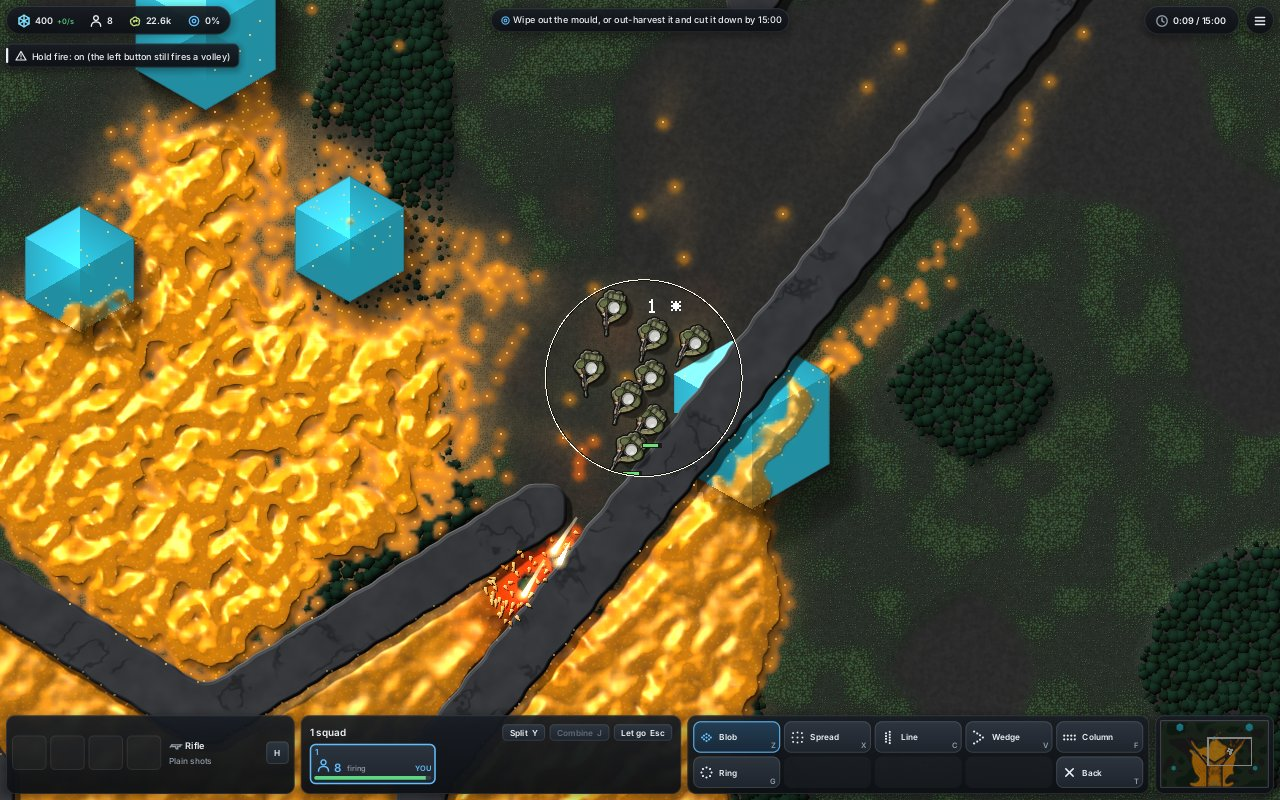
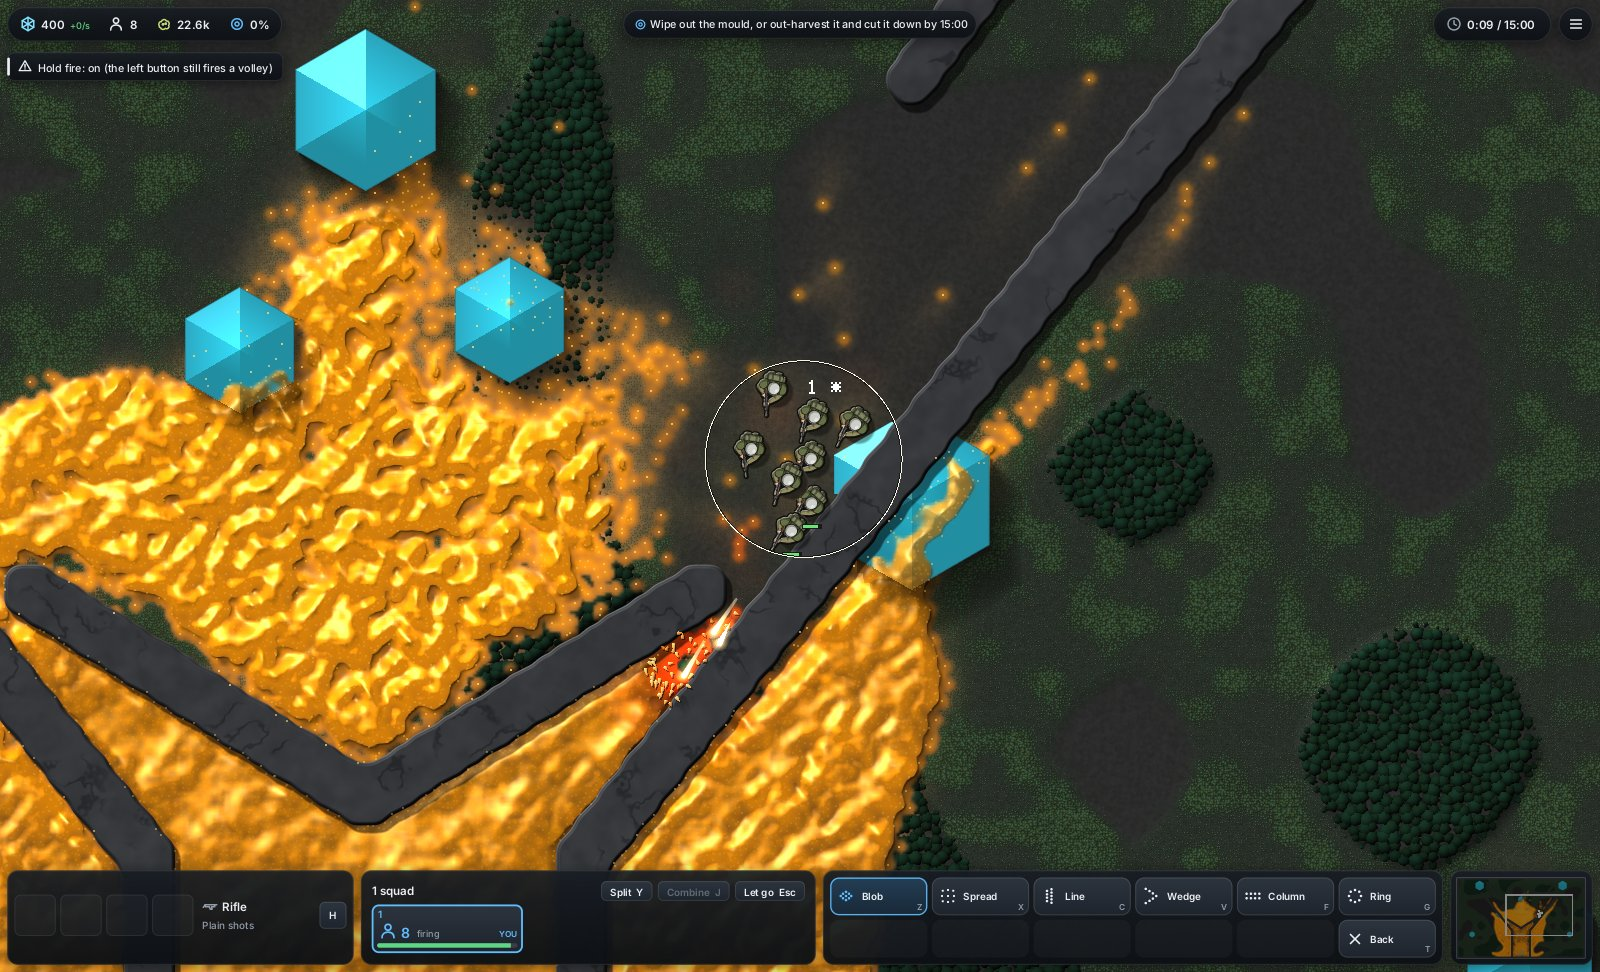
Card 6 x 2: Heal and Wall on the main page, the gun strip gives the room
Scott 06:21Z: "Shrink the gun section to get another column. Add walls to
the main page." ui::CARD_COLS 6, CELL_W 116 -> 108, GUN_FLOOR at 0.7 of
the rifle's bare strip, so the card keeps its labels and the gun strip
draws smaller where the row is tight (125% on 1600x972 and 1280x800). A
one-line button name now stays clear of its key (Drain crystal ran under
its G at 108). Squad main page: Attack, Guard, Drain, Fire, Hold fire,
Heal; Buy, Pump, Wall (V), Build, Tools, Formation. Formation page: six
formations in a row, Back under Formation. The RTS card leaves its sixth
column empty.

Claude-Session: https://claude.ai/code/session_01TFcbG7BwQKEVXj5ZSmFTzB

diff --git a/src/bin/larder-world/draw.rs b/src/bin/larder-world/draw.rs
@@ -1581,23 +1581,34 @@ impl App {
             // Pump's main-card slot is Heal's in the squad mode (below,
             // 2026-11-21); there Pump is on the Build page only.
             pump((1, 1)),
-            Command { about: "Turrets, pumps, walls, lures and sirens.".into(), ..Command::new(BUILD_PAGE, at((1, 3), (1, 2)), Icon::Turret, "Build", KeyCode::KeyQ) },
+            Command { about: "Turrets, pumps, walls, lures and sirens.".into(), ..Command::new(BUILD_PAGE, (1, 3), Icon::Turret, "Build", KeyCode::KeyQ) },
             Command {
                 about: "The squad's tools: blast, det cord, mine, germ, sleep gas. Every soldier at the larder picks one up; a selected soldier there takes up to five, and each one held costs carry.".into(),
-                ..Command::new(TOOLS_PAGE, at((1, 4), (1, 3)), Icon::Grenade, "Tools", KeyCode::KeyE)
+                ..Command::new(TOOLS_PAGE, (1, 4), Icon::Grenade, "Tools", KeyCode::KeyE)
             },
         ];
         // The squad mode's Hold fire and Formation (owner 2026-11-21
         // 05:04Z). Hold fire takes Heal's (0, 4), beside the fire button;
-        // Formation takes the Lookouts' (1, 4), which went with the
-        // lookouts, and opens the Formation page.
+        // Formation takes the last slot, (1, 5), and opens the Formation
+        // page.
         if squads {
-            // Heal back on the main card in Pump's (1, 1); Pump stays on the
-            // Build page (Q, then U). A night on the Formation page read as
-            // an odd fit (owner 06:14Z: "heal is in formation?").
-            cmds.retain(|c| c.id != PUMP);
+            // The card's sixth column (owner 06:21Z: "Shrink the gun section
+            // to get another column. Add walls to the main page."): Heal at
+            // (0, 5), the wall at (1, 2) (as on the Build page, V). For a
+            // few minutes Heal sat on the Formation page and then in Pump's
+            // slot (owner 06:14Z: "heal is in formation?").
             let heal_off = g.active.map_or(no_sel(), |a| super::squadmode::heal_off(g, a));
-            cmds.push(Command { ready: heal_off.is_none(), why_not: heal_off, about: "The squad stops where it is and heals, paying food from the bank: fast by a crystal you hold, slow elsewhere. Any order ends it.".into(), ..Command::new(HEAL_ORDER, (1, 1), Icon::Heart, "Heal", super::squadmode::HEAL_KEY) });
+            cmds.push(Command { ready: heal_off.is_none(), why_not: heal_off, about: "The squad stops where it is and heals, paying food from the bank: fast by a crystal you hold, slow elsewhere. Any order ends it.".into(), ..Command::new(HEAL_ORDER, (0, 5), Icon::Heart, "Heal", super::squadmode::HEAL_KEY) });
+            cmds.push(Command {
+                target: Target::Line { width: r.wall_width * sc },
+                // The price a cell, bare: "20/cell" ran past the narrower
+                // button's edge.
+                cost: Some(format!("{:.0}", r.wall_cost)),
+                ready: g.bank >= r.wall_cost,
+                why_not: need(r.wall_cost),
+                about: format!("A wall the mould has to wear through, slowly. Both ends within a soldier's range; {:.0} food a cell of its length. Doors are on the Build page.", r.wall_cost),
+                ..Command::new(WALL, (1, 2), Icon::Wall, "Wall", KeyCode::KeyV)
+            });
             cmds.push(Command {
                 ready: any,
                 on: held,
@@ -1610,7 +1621,7 @@ impl App {
                 ready: f.is_some(),
                 why_not: no_sel(),
                 about: format!("How the squad stands and walks: blob, spread, line, wedge, column or ring (now {}). Opens the formation page.", f.map_or("none", |f| f.name())),
-                ..Command::new(FORM_PAGE, (1, 4), f.map_or(Icon::Formation, form_icon), &f.map_or("Formation".to_string(), |f| format!("Formation: {}", f.name())), super::squadmode::FORMATION)
+                ..Command::new(FORM_PAGE, (1, 5), f.map_or(Icon::Formation, form_icon), &f.map_or("Formation".to_string(), |f| format!("Formation: {}", f.name())), super::squadmode::FORMATION)
             });
         }
         // The rally point at (1, 2), or on the build page with the larder's
@@ -1655,8 +1666,8 @@ impl App {
                 form(F_LINE, (0, 2), KeyCode::KeyC, "Shoulder to shoulder across the way it faces (the cursor, for the squad you command), rows of eight: every gun has a clear line forward."),
                 form(F_WEDGE, (0, 3), KeyCode::KeyV, "A V with its point toward the cursor: a narrow front that pushes into the mould with guns down both sides."),
                 form(F_COLUMN, (0, 4), KeyCode::KeyF, "Two abreast, front to back, facing where it walks: files through doors, bridges and gaps between rocks without bunching."),
-                form(F_RING, (1, 0), KeyCode::KeyG, "A circle facing out, for holding ground with mould on every side."),
-                Command { about: "Back to the squad's commands.".into(), ..Command::new(F_BACK, (1, 4), Icon::Close, "Back", super::squadmode::FORMATION) },
+                form(F_RING, (0, 5), KeyCode::KeyG, "A circle facing out, for holding ground with mould on every side."),
+                Command { about: "Back to the squad's commands.".into(), ..Command::new(F_BACK, (1, 5), Icon::Close, "Back", super::squadmode::FORMATION) },
             ];
         }
         if self.tools_page {

diff --git a/src/world/ui.rs b/src/world/ui.rs
@@ -76,7 +76,10 @@ const CELL: f32 = 42.0;
 /// falls back to the square buttons (`Hud::bar_fit`; until the review's
 /// allocator, where the selection kept under 340 units beside a full gun
 /// strip).
-const CELL_W: f32 = 116.0;
+///
+/// 108 since the card went 6 x 2 (owner 2026-11-21 06:21Z: "Shrink the gun
+/// section to get another column"); 116 at 5 x 2.
+const CELL_W: f32 = 108.0;
 const CELL_GAP: f32 = 5.0;
 const CARD_PAD: f32 = 8.0;
 /// The command card's grid. 4 x 3 until the owner's ask of 11-14 08:33Z
@@ -86,8 +89,12 @@ const CARD_PAD: f32 = 8.0;
 /// to 113 units at 1080 lines (15% to 10% of the screen). 5 x 2 since the
 /// owner's Card 2 (2026-11-15 19:38Z): one fire button that cycles in the
 /// three stances' place, Burn a line gone for Guard, no empty tile; 122
-/// units narrower labelled, which goes to the selection's labels.
-const CARD_COLS: u8 = 5;
+/// units narrower labelled, which goes to the selection's labels. 6 x 2
+/// again since 2026-11-21 (owner 06:21Z: "Shrink the gun section to get
+/// another column. Add walls to the main page."): Hold fire, Formation,
+/// Heal and Wall all on the squad mode's main page; the buttons narrowed
+/// to 108 and the gun strip gives the rest (`GUN_FLOOR`).
+const CARD_COLS: u8 = 6;
 const CARD_ROWS: u8 = 2;
 /// The bottom bar's size against the rest of the HUD. Until the owner's
 /// playtest of 11-14 20:19Z the bar drew at 1 and the minimap kept the
@@ -138,8 +145,11 @@ const GUN_TAB: f32 = 24.0;
 /// the game's 1600 x 972 window).
 const SEL_FLOOR: f32 = 270.0;
 /// The gun strip's width the command card's labels leave room for: the
-/// rifle's four cards and the gun's icon, no Swap (`Hud::bar_fit`).
-const GUN_FLOOR: f32 = 2.0 * 8.0 + 4.0 * LOADOUT_CELL + 3.0 * 5.0 + 10.0 + GUN_TAB;
+/// rifle's four cards and the gun's icon, no Swap (`Hud::bar_fit`), drawn
+/// at 0.7 of their size since the card's sixth column (2026-11-21, owner
+/// 06:21Z: "Shrink the gun section to get another column"); full size
+/// until then.
+const GUN_FLOOR: f32 = 0.7 * (2.0 * 8.0 + 4.0 * LOADOUT_CELL + 3.0 * 5.0 + 10.0 + GUN_TAB);
 
 /// The loadout strip's width: its slots (the widest gun's in play), the
 /// name and state (or the gun's icon), and Swap, as `f` shows them. How
@@ -2220,7 +2230,10 @@ impl Hud {
                 // it wraps), then the cost or the rest of the name; the
                 // key at the bottom right, so the first line has the width.
                 let px = fit_px(c, &label, 13.0 * s, 11.5 * s, room);
-                let one = c.atlas.measure(Weight::SemiBold, px, &label) <= room;
+                // One line only clear of the key (since the card's sixth
+                // column, 11-21, a name that filled the narrower button ran
+                // under its key: "Drain crystal" over its G).
+                let one = c.atlas.measure(Weight::SemiBold, px, &label) <= room - kw;
                 let second = room - kw;
                 // Locked: a lock and "Locked" where the price goes, grey. A
                 // red price read as "can't afford" with the bank full (the
@@ -3161,14 +3174,15 @@ mod tests {
         assert_eq!(r.click(Button::Left, false), (true, vec![]));
     }
 
-    /// Card 2 (owner 2026-11-15 19:38Z): five by two, a slot is its own
-    /// place, and one past the edge stays on the card.
+    /// Card 2 (owner 2026-11-15 19:38Z) and its sixth column (2026-11-21
+    /// 06:21Z): six by two, a slot is its own place, and one past the edge
+    /// stays on the card.
     #[test]
-    fn the_command_card_is_five_by_two() {
-        assert_eq!((CARD_COLS, CARD_ROWS), (5, 2));
-        let places: Vec<(u8, u8)> = (0..2).flat_map(|r| (0..5).map(move |c| card_slot((r, c)))).collect();
-        assert_eq!(places, (0..2).flat_map(|r| (0..5).map(move |c| (r, c))).collect::<Vec<_>>());
-        assert_eq!(card_slot((2, 6)), (1, 4));
+    fn the_command_card_is_six_by_two() {
+        assert_eq!((CARD_COLS, CARD_ROWS), (6, 2));
+        let places: Vec<(u8, u8)> = (0..2).flat_map(|r| (0..6).map(move |c| card_slot((r, c)))).collect();
+        assert_eq!(places, (0..2).flat_map(|r| (0..6).map(move |c| (r, c))).collect::<Vec<_>>());
+        assert_eq!(card_slot((2, 7)), (1, 5));
     }
 
     /// A button's other keys (the fire button's Z, X and C) give their own
@@ -3543,7 +3557,14 @@ mod tests {
         // (11-20) a 6-slot gun's cards shrink inside their panel at 125%
         // on 1600 x 972 and 1280 x 800, where the command card went square
         // for it before.
-        assert!(shrunk.iter().all(|(at, s)| *s >= 1.3 || at.ends_with("6 slots")), "the strip shrank at a small size: {shrunk:?}");
+        //
+        // Since the card's sixth column (owner 2026-11-21 06:21Z: "Shrink
+        // the gun section to get another column") the rifle's strip draws
+        // smaller too wherever the row is tight (125% on 1600 x 972 and
+        // 1280 x 800, 175% and up on 1920 x 1080): the card keeps its
+        // labels and the gun gives the room. At 100% on 1920 x 1080 and
+        // wider the rifle's strip keeps its size.
+        assert!(shrunk.iter().all(|(at, s)| *s >= 0.9 || at.ends_with("6 slots")), "the strip shrank at a small size: {shrunk:?}");
         assert!(labelled > cases / 4, "labels in only {labelled} of {cases} cases");
     }
 

diff --git a/src/bin/larder-world/tests.rs b/src/bin/larder-world/tests.rs
@@ -672,9 +672,15 @@ fn the_squad_modes_keys_do_what_the_card_says() {
     assert_eq!(key_of("Fire: defend"), Some(KeyCode::KeyX));
     assert_eq!(key_of("Hold fire"), Some(KeyCode::KeyZ));
     assert_eq!(key_of("Formation: blob"), Some(KeyCode::KeyT));
-    // Heal has Pump's slot; Pump is on the Build page.
+    // The sixth column (owner 2026-11-21 06:21Z): Heal, Pump and the wall
+    // all on the main page.
     assert_eq!(key_of("Heal"), Some(KeyCode::KeyL));
-    assert!(m.commands.iter().all(|c| c.id != PUMP));
+    assert_eq!(key_of("Wall"), Some(KeyCode::KeyV));
+    assert!(m.commands.iter().any(|c| c.id == PUMP));
+    let mut slots: Vec<(u8, u8)> = m.commands.iter().map(|c| c.slot).collect();
+    slots.sort_unstable();
+    slots.dedup();
+    assert_eq!(slots.len(), m.commands.len(), "one button a slot");
     assert!(m.help_base.as_ref().is_some_and(|h| h.iter().any(|r| r.1.starts_with("Split"))), "F1 lists the squad's keys");
     // G is the card's: it aims a drain, and merges nothing.
     assert!(!app.squad_key(KeyCode::KeyG, true, false, false));

diff --git a/src/bin/larder-world/squadmode.rs b/src/bin/larder-world/squadmode.rs
@@ -86,9 +86,9 @@ pub(super) const FORMATION: KeyCode = KeyCode::KeyT;
 pub(super) const CYCLE: KeyCode = KeyCode::Backquote;
 /// The card's Heal (Card 2, 2026-11-15 19:38Z; it was the squad panel's).
 /// Heal: owner 2026-11-15 07:41Z, "Healing should be a specific action".
-/// Since 2026-11-21 it has Pump's slot on the main card (Pump is on the
-/// Build page), and L heals from the other pages too (`App::squad_key`),
-/// bar the build page, where L is the lure's, as
+/// Since 2026-11-21 it is on the main card's sixth column, and L heals
+/// from the other pages too (`App::squad_key`), bar the build page, where
+/// L is the lure's, as
 /// every card key is that page's there. (The card's Lookouts, I, went
 /// 2026-11-21 with the lookouts.)
 pub(super) const HEAL_KEY: KeyCode = KeyCode::KeyL;

diff --git a/wiki/decisions-game.md b/wiki/decisions-game.md
@@ -60,7 +60,7 @@ live only in [NOW.md](../NOW.md), *What waits on the owner* (since
 
 | When | Decision | Owner's words | Pages |
 |---|---|---|---|
-| 2026-11-21 05:04 | Squad control: the lookouts (a share of a draining or building squad standing guard, with its workers at half fire) are removed, so every member works and fires at full rate; a Formation button on the command card opens a page of six formations (blob, spread, line, wedge, column, ring; Heal takes Pump's main-card slot, Pump stays on the Build page); Hold fire is its own toggle beside a fire button that picks defend or free fire | "remove the feature that some solider guard while harvesting. add a formations button to the hud with good formation options. hold fire should be a seperate button from defend vs free fire." | [squad mode](world/squad-mode.md) |
+| 2026-11-21 05:04 | Squad control: the lookouts (a share of a draining or building squad standing guard, with its workers at half fire) are removed, so every member works and fires at full rate; a Formation button on the command card opens a page of six formations (blob, spread, line, wedge, column, ring); 06:21Z: the card gets a sixth column, the gun strip narrower, and the wall joins the main page; Hold fire is its own toggle beside a fire button that picks defend or free fire | "remove the feature that some solider guard while harvesting. add a formations button to the hud with good formation options. hold fire should be a seperate button from defend vs free fire."; 06:21Z: "Shrink the gun section to get another column. Add walls to the main page." | [squad mode](world/squad-mode.md) |
 | 2026-11-21 00:49 | Doors are placed with one click on a wall, not drawn: a door three wall widths long, centred on the click and cut at once (`Game::door_from_click`); a click off every wall places nothing. Drawing a door across a gap went with the drag | "Also doors should be created with just a click, not dragging" | [maps](world/maps.md) |
 | 2026-11-21 00:49 | Slime must not pass a wall it has not worn through: a step, a birth or a spore's flight that would cross any standing wall cell stops there and bites it (`solid_walls`, GPU engine, on by default; the CPU dish keeps the old rule) | "Sometimes slime is able to get through my walls even when they have no burrowed a full hole yet. Review." | [maps](world/maps.md) |
 | 2026-11-20 23:32 | Planet 1 is saved from the late threats and **each planet brings something new**: the strikers wait for planet 2, the waves and the late lunge for planet 3, the last-stand heart for planet 4 (mini-bosses from planet 2, the Pinwheel from 3 and the slime's mortar from 4, as before). Every rule stays on in the game, gated by planet (`run::FIRST_PLANET`); planet 1 keeps fruiting, the heartbeat, starfall and cores. Schedule by the thread "Pace threats across the planets", agreed by Direction | "We don't need all these mini-bosses, strikers, etc. in planet one. We should save some thing for later planets. Also holy fuck did it get harder I just played again and had a really good map and was playing really well and the strikers still fucked my shit up (on planet 1)" | [run](world/run.md) |

diff --git a/wiki/world/squad-mode.md b/wiki/world/squad-mode.md
@@ -117,11 +117,10 @@ is still to come. A walking map serves any goal within `MAP_NEAR` 12 dish cells 
   footprint (`Game::guard_zone`, `Squad::guard`, `Order::Guard`); a ring shows
   the zone. Steering or another order ends it. Defend stays the default fire
   mode ([report](../../Reports/command-card-2026-11-15/README.md)).
-- **The command card** is Card 2 (owner 19:38Z) as changed 2026-11-21: 5 x 2,
-  Attack-move, Guard, Drain, the fire button (X: defend or free fire), Hold
+- **The command card** is Card 2 (owner 19:38Z) as changed 2026-11-21, 6 x 2
+  with the gun strip narrower (06:21Z): Attack-move, Guard, Drain, the fire button (X: defend or free fire), Hold
   fire (Z, a toggle; a held soldier fires the button's mode once let go,
-  `App::unheld` in the window); Buy, Heal, Build, Tools, Formation (Pump is
-  on the Build page). (The RTS
+  `App::unheld` in the window), Heal; Buy, Pump, Wall, Build, Tools, Formation. (The RTS
   round keeps one fire button that cycles hold, defend and free.) The Build page (option 1, 19:53Z):
   turret, pump, wall, lure, siren, then the lures' switch and Back. With no
   squad commanded a click on a building selects it: its health, level and

diff --git a/handoff/squad-and-arsenal.md b/handoff/squad-and-arsenal.md
@@ -55,8 +55,8 @@ Lookouts removed (`cover.rs` keeps only the work's end and heal's end;
 own toggle in the squad mode (`App::squad_hold_fire`, `App::unheld` keeps
 each held soldier's mode); the fire button picks defend or free. The card's
 Formation button (T, `FORM_PAGE`) opens a page of six formations, two new
-(`Formation::Column`, `Formation::Spread`), and Heal in Pump's main-card slot (Pump on
-the Build page). A column faces where it walks and counts as a pair wide to
+(`Formation::Column`, `Formation::Spread`), and a 6 x 2 card (`ui::CARD_COLS`, buttons 104 wide, the
+gun strip's floor at 0.7) with Heal and Wall on the main page. A column faces where it walks and counts as a pair wide to
 the funnel. The bot check (before/after, planets 1-3) is in the PR.
 
 **2026-11-20, pathfinding review (its own thread, the owner's ask).**
